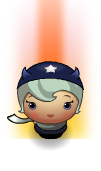
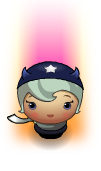
new collision / win sprite & add game over ui

Changed region(s): [[0.2376, 0.0, 0.7426, 0.4094], [0.1188, 0.5848, 0.8614, 0.8772]]

diff --git a/js/app.js b/js/app.js
@@ -5,9 +5,9 @@ class Player {
 	constructor(x = 0, y = 0) {
 		this.x = x;
 		this.y = y;
-		this.sprite = "images/char-horn-girl.png";
-		this.collisionSprite = "images/char-horn-girl-collision.png";
-		this.winSprite = "images/char-horn-girl-winning.png";
+		this.sprite = `images/char-horn-girl.png`;
+		this.collisionSprite = `images/char-horn-girl-collision.png`;
+		this.winSprite = `images/char-horn-girl-winning.png`;
 		// png size in px
 		this.height = 85;
 		this.width = 75;
@@ -16,9 +16,13 @@ class Player {
 		this.score = 0;
 		this.life = 5;
 		this.top = [];
-		this.audio = new Audio();
-		this.step = "assets/audio/sfx_movement_footsteps5.wav";
-		this.winningSound = "assets/audio/BANK_00_INSTR_0008_SND_0019.wav";
+		this.stepPlayer = new Audio();
+		this.winPlayer = new Audio();
+		this.stepSound = "assets/audio/sfx_movement_footsteps5.wav";
+		this.winSound = "assets/audio/BANK_00_INSTR_0008_SND_0019.wav";
+
+		this.end = false;
+		this.endSprite = "images/end-game.png";
 	}
 	update(dt) {
 		// You should multiply any movement by the dt parameter
@@ -28,8 +32,10 @@ class Player {
 	}
 
 	render() {
-		if (!this.touch && !this.winner) {
+		if (!this.touch && !this.winner && !this.end) {
 			ctx.drawImage(Resources.get(this.sprite), this.x, this.y);
+		} else if (this.end) {
+			ctx.drawImage(Resources.get(this.endSprite), 0, 0);
 		} else if (this.winner) {
 			ctx.drawImage(Resources.get(this.winSprite), this.x, this.y);
 		} else {
@@ -38,23 +44,28 @@ class Player {
 	}
 
 	handleInput(key) {
-		this.audio.src = this.step;
+		this.stepPlayer.src = this.stepSound;
 		switch (key) {
 			case "left":
 				if (this.x > 0 && !this.touch) {
-					this.audio.play();
+					this.stepPlayer.load();
+					this.stepPlayer.pause();
+					this.stepPlayer.currentTime = 0;
+					this.stepPlayer.play();
 					this.x -= 101;
 				}
 				break;
 			case "right":
 				if (this.x < 304 && !this.touch) {
-					this.audio.play();
+					this.stepPlayer.load();
+					this.stepPlayer.play();
 					this.x += 101;
 				}
 				break;
 			case "up":
 				if (this.y > 0 && !this.touch) {
-					this.audio.play();
+					this.stepPlayer.load();
+					this.stepPlayer.play();
 					this.y -= 83;
 				}
 				// touch water case
@@ -64,7 +75,8 @@ class Player {
 				break;
 			case "down":
 				if (this.y < 400 && !this.touch) {
-					this.audio.play();
+					this.stepPlayer.load();
+					this.stepPlayer.play();
 					this.y += 83;
 				}
 				break;
@@ -83,13 +95,14 @@ class Player {
 			this.x = 202;
 			this.y = 405;
 			this.touch = false;
-		}, 350);
+		}, 550);
 	}
 
 	win() {
 		this.winner = true;
-		this.audio.src = this.winningSound;
-		this.audio.play();
+		this.winPlayer.src = this.winSound;
+		this.winPlayer.load();
+		this.winPlayer.play();
 		document.querySelector("#score").innerHTML = ++this.score;
 		setTimeout(() => {
 			this.x = 202;
@@ -106,17 +119,20 @@ class Player {
 			hp.className = "far";
 		}
 		if (this.life === 0) {
-			document.querySelector("#score").innerHTML = "YOU LOSE !";
+			document.querySelector("#snackBar").innerHTML = "YOU LOSE !";
 			this.top.push(this.score);
 			document.querySelector("#top").innerHTML = this.top.join(", ");
-			bug_1 = new Enemy(-101, 60, 150);
-			bug_2 = new Enemy(-101, 142, 100);
-			bug_3 = new Enemy(-101, 224, 75);
-
-			allEnemies = [bug_1, bug_2, bug_3];
+			this.end = true;
 			setTimeout(() => {
+				this.end = false;
+				bug_1 = new Enemy(-101, 60, 150);
+				bug_2 = new Enemy(-101, 142, 100);
+				bug_3 = new Enemy(-101, 224, 75);
+
+				allEnemies = [bug_1, bug_2, bug_3];
 				this.score = 0;
 				this.life = 5;
+				document.querySelector("#snackBar").innerHTML = "";
 
 				let heart = document.querySelector(".heart");
 				// delete old
@@ -130,7 +146,7 @@ class Player {
 					heart.appendChild(li);
 				}
 				document.querySelector("#score").innerHTML = this.score;
-			}, 1000);
+			}, 3000);
 		}
 	}
 }
@@ -175,7 +191,7 @@ Enemy.prototype.update = function(dt, witdh) {
 
 // Draw the enemy on the screen, required method for game
 Enemy.prototype.render = function() {
-	ctx.drawImage(Resources.get(this.sprite), this.x, this.y);
+	if (!player.end) ctx.drawImage(Resources.get(this.sprite), this.x, this.y);
 };
 
 Enemy.prototype.collision = function() {
@@ -226,5 +242,20 @@ characters.forEach(character => {
 	character.addEventListener("click", () => {
 		// Set sprite from user selection
 		player.sprite = character.querySelector("img").getAttribute("src");
+		player.defaultSprite = player.sprite.substr(
+			0,
+			player.sprite.length - 4
+		);
+		console.log("====================================");
+		console.log(player.sprite);
+		console.log("====================================");
+		player.collisionSprite = `${player.defaultSprite}-collision.png`;
+		console.log("====================================");
+		console.log(player.collisionSprite);
+		console.log("====================================");
+		player.winSprite = `${player.defaultSprite}-winning.png`;
+		console.log("====================================");
+		console.log(player.winSprite);
+		console.log("====================================");
 	});
 });

diff --git a/js/engine.js b/js/engine.js
@@ -23,12 +23,15 @@ var Engine = (function(global) {
 		canvas = doc.createElement("canvas"),
 		game = doc.querySelector("#game"),
 		ctx = canvas.getContext("2d"),
+		snackBar = doc.createElement("h2"),
 		lastTime;
 
 	canvas.width = 505;
 	canvas.height = 606;
 	canvas.setAttribute("id", "canvas");
 	game.appendChild(canvas);
+	snackBar.setAttribute("id", "snackBar");
+	game.appendChild(snackBar);
 
 	// Build hp bar
 	let heart = document.querySelector(".heart");
@@ -203,10 +206,17 @@ var Engine = (function(global) {
 		"images/char-horn-girl.png",
 		"images/char-pink-girl.png",
 		"images/char-princess-girl.png",
-		"images/char-boy-pink.png",
+		"images/char-horn-girl-winning.png",
+		"images/char-boy-winning.png",
+		"images/char-cat-girl-winning.png",
+		"images/char-pink-girl-winning.png",
+		"images/char-princess-girl-winning.png",
+		"images/char-boy-collision.png",
+		"images/char-cat-girl-collision.png",
 		"images/char-horn-girl-collision.png",
-		"images/char-horn-girl-win.png",
-		"images/char-horn-girl-winning.png"
+		"images/char-pink-girl-collision.png",
+		"images/char-princess-girl-collision.png",
+		"images/end-game.png"
 	]);
 	Resources.onReady(init);
 

diff --git a/index.html b/index.html
@@ -19,12 +19,13 @@
                 </br>
                 </br>You can move &larr;, &rarr;, &uarr;, and &darr; with the keyboard. The enemies move in
                 <strong>varying</strong> speeds on the paved block portion of the scene and
-                <strong>increase</strong> when you reaches the water !
+                <strong>speed increase</strong> each time you reaches the water !
                 </br>
                 </br>Once you collides with an enemy, you moves back to the start square and lose a heart point!
                 </br>
-                </br>Once you reaches the water the game is
-                <strong>won!</strong>
+                </br>If you lose 5 heart, it's game over !
+                </br>
+                </br>Each time you reaches the water, you win a point
             </p>
         </div>
         <div>

diff --git a/README.md b/README.md
@@ -8,14 +8,16 @@
 $ git clone https://github.com/ludwig-vaan/bug-dash.git
 ```
 
-Open the `index.html` in your browser
+Open the `index.html` in your browser (chrome for a better experience)
 
 ### How to Play
 
 Your goal is to reach the water, without colliding into any one of the enemies (bugs).
-
 You can move left, right, up and down. The enemies move in varying speeds on the paved block portion of the scene.
-
 Once you collides with an enemy, the game is reset and you moves back to the start square.
-
 Once you reaches the water the game is won.
+
+### To Do
+
+-   reset button
+-   fix issue with sound behaviour on firefox
